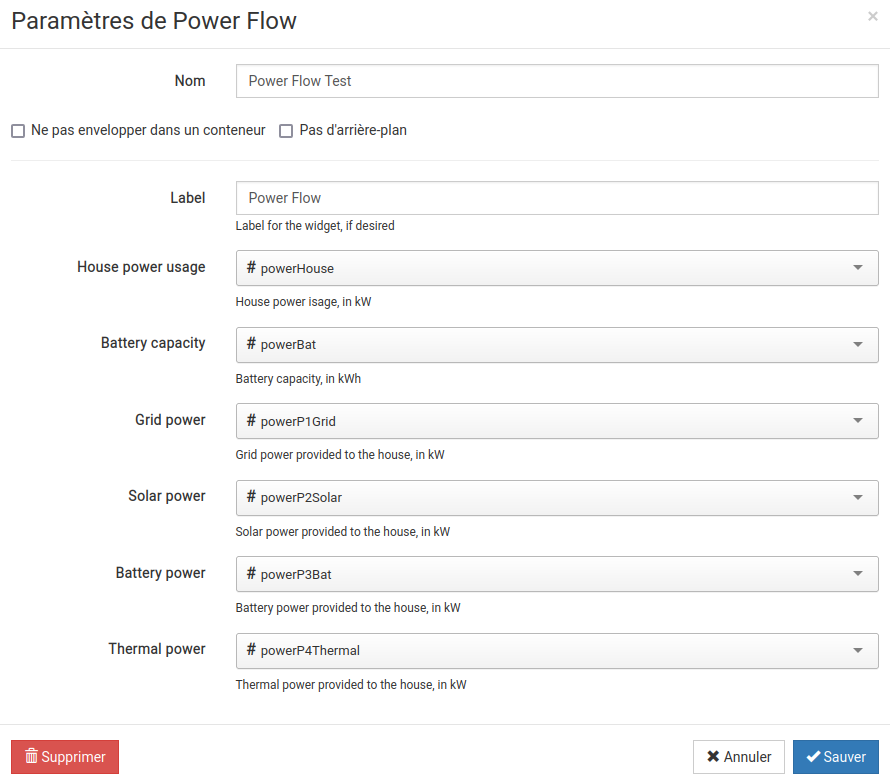
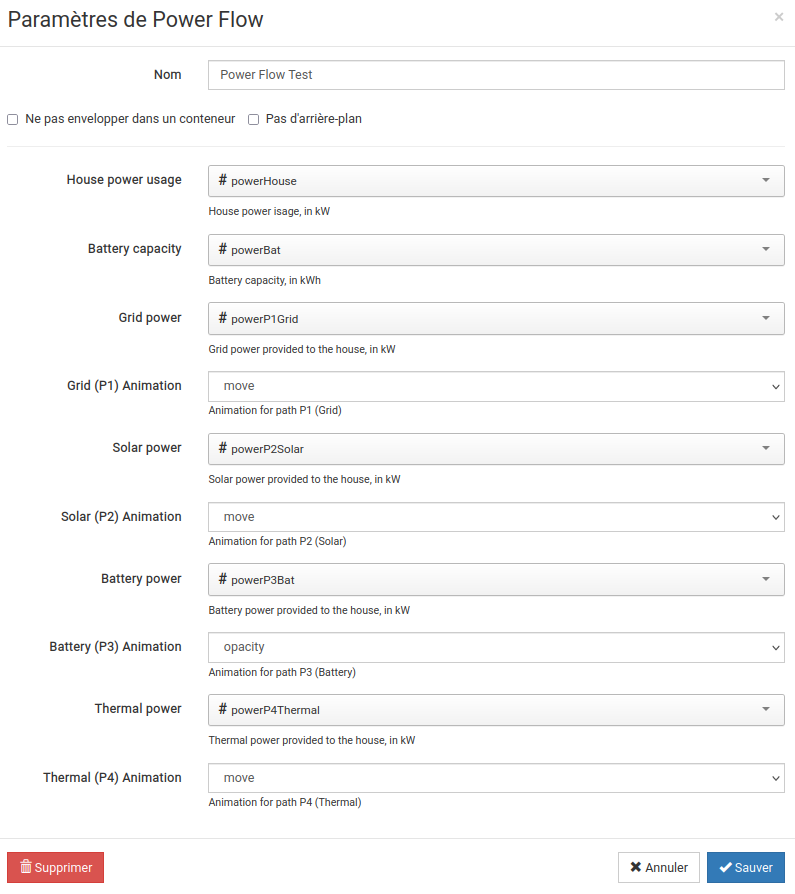
edit

diff --git a/README.md b/README.md
@@ -22,10 +22,12 @@ The code is easy to change in order to accomodate other SVG and item selections.
 ### Parameters
 
 The widget can be configured in habpanel.
-The only configuration available is the selection of items to display.
+The basic configuration is the selection of items to display:
 
 - 'house', 'bat' : value displayed as text
 - 'p1, to 'p4' : values displayed as text and as animation
+
+The animation for the 4 path can also be selected here ('move', 'pulse', 'opacity' ).
 
 ## Screenshot
 
@@ -50,7 +52,7 @@ Simply copy the directory powerFlow into the static html area of openhab.
 
 For openraspbian, just do
 
-`cp -r thermoKnob /etc/openhab2/html/`
+`cp -r powerFlow /etc/openhab2/html/`
 
 If you install the file elsewhere, make sure you adjust the widget [power-flow.widget.json](power-flow.widget.json) file accordingly.
 
